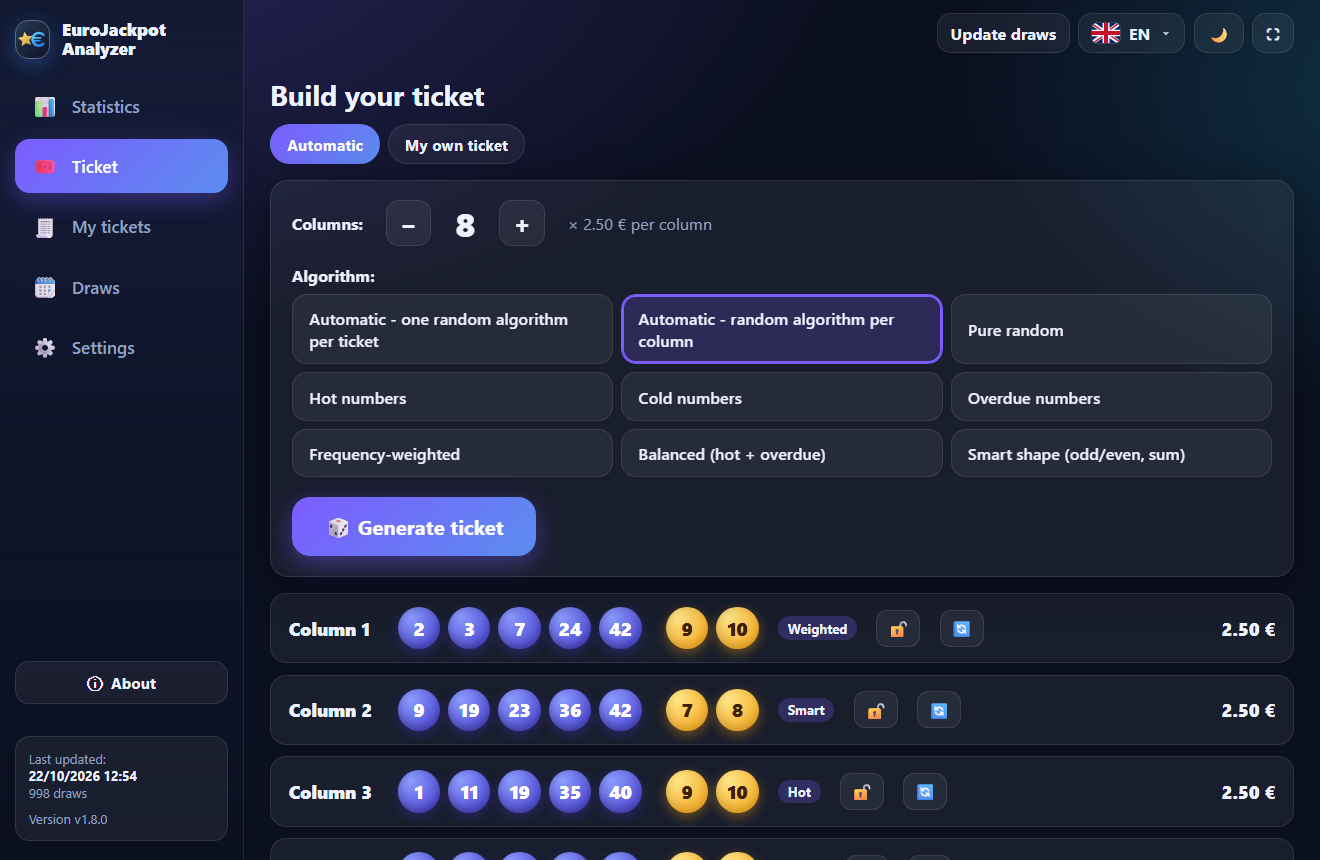
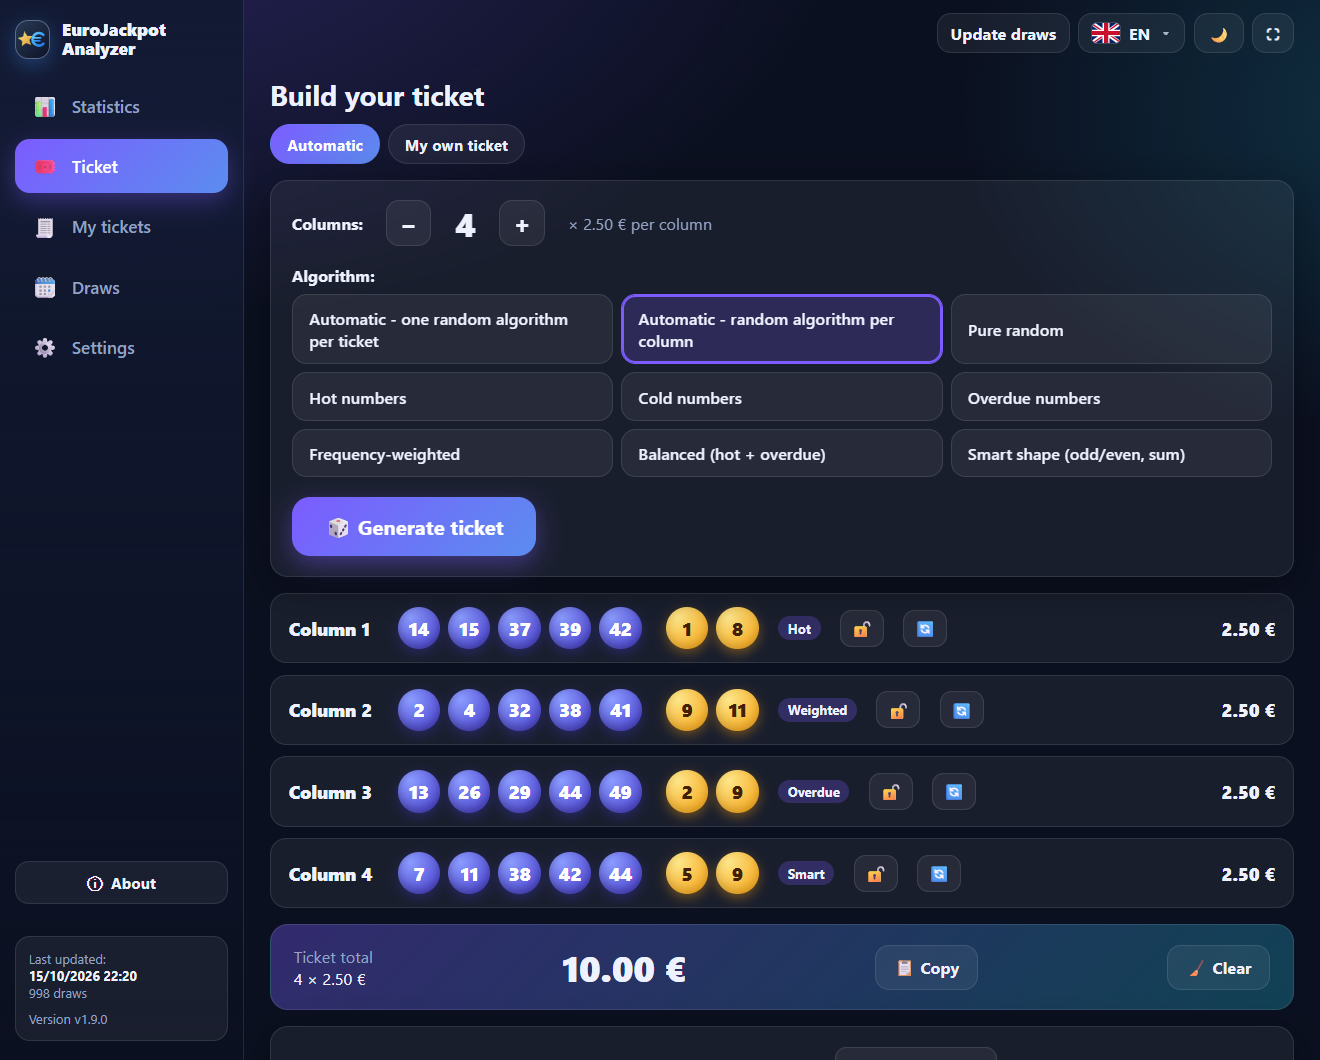
1.9.0: Clear button on automatically generated tickets (app, web, HA card + clear_ticket service)

diff --git a/app/ui/app.js b/app/ui/app.js
@@ -491,13 +491,14 @@ function drawTicket() {
   out.innerHTML = `<div class="cols">${tk.columns.map((c, i) => `
     <div class="col-row ${S.locks[i] ? "locked" : ""}">
       <span class="col-no">${tr("ticket.column")} ${i + 1}</span>${balls(c)}
-      <span class="col-tag">${tr("algo.short." + c.algo)}</span>
+      <span class="col-tag" title="${esc(algoLabel(c.algo))}">${tr("algo.short." + c.algo)}</span>
       <button class="icon-btn" data-lock="${i}" title="${S.locks[i] ? tr("ticket.unlock") : tr("ticket.lock")}">${S.locks[i] ? "🔒" : "🔓"}</button>
       <button class="icon-btn" data-regen="${i}" title="${tr("ticket.regen")}">🔄</button>
       <span class="col-price">${money(tk.price_per_column)}</span></div>`).join("")}</div>
     <div class="total"><div><div class="muted">${tr("ticket.total")}</div><div>${tk.columns.length} × ${money(tk.price_per_column)}</div></div>
       <div class="sum">${money(tk.total)}</div>
-      <button id="copy" class="btn">📋 ${tr("ticket.copy")}</button></div>
+      <button id="copy" class="btn">📋 ${tr("ticket.copy")}</button>
+      <button id="clear" class="btn">🧹 ${tr("ticket.clear")}</button></div>
     <div class="saved card">
       <div><b>💾 ${tr("tk.saved")}</b> · ${tr("tk.for_draw")}:
         <select id="tk-target">${[...new Set([tk.target_date, ...(S.nextDraws || [])])].sort().map(d => `<option value="${d}" ${d === tk.target_date ? "selected" : ""}>${fmtDay(d)}</option>`).join("")}</select></div>
@@ -508,6 +509,11 @@ function drawTicket() {
   $$("[data-lock]", out).forEach(b => b.onclick = () => { const i = +b.dataset.lock; S.locks[i] = !S.locks[i]; drawTicket(); });
   $$("[data-regen]", out).forEach(b => b.onclick = () => { const i = +b.dataset.regen;
     generate(tk.columns.map((c, j) => j === i ? null : c)); });
+  $("#clear").onclick = async () => {        // forget the generated ticket (an unplayed suggestion leaves the history too, a played one stays) to start a new one
+    try { if (!tk.played) await call("delete_ticket", tk.id); } catch (e) { toast(e.message || String(e)); }
+    S.ticket = null; S.locks = {};
+    drawTicket();
+  };
   $("#copy").onclick = async () => {
     const text = tk.columns.map((c, i) => `${tr("ticket.column")} ${i + 1}: ${c.main.join(" ")} + ${c.euro.join(" ")}`).join("\n") + `\n${tr("ticket.total")}: ${money(tk.total)}`;
     try { await navigator.clipboard.writeText(text); toast(tr("ticket.copied")); } catch { toast(text); }

diff --git a/app/version.py b/app/version.py
@@ -1,7 +1,7 @@
 import os
 
 # EJP_VERSION_OVERRIDE: testing/docs only (e.g. pretend to be an older version to see the update screen)
-__version__ = os.environ.get("EJP_VERSION_OVERRIDE") or "1.8.2"
+__version__ = os.environ.get("EJP_VERSION_OVERRIDE") or "1.9.0"
 APP_NAME = "EuroJackpot Analyzer"
 # GitHub "owner/name" used for update checks (GitHub Releases). Empty = update check disabled.
 GITHUB_REPO = "VeZReVouLiS/EuroJackpot-Analyzer"

diff --git a/README.md b/README.md
@@ -88,7 +88,7 @@
    - *Αυτόματος - ένας τυχαίος αλγόριθμος ανά δελτίο*, ή *τυχαίος αλγόριθμος ανά στήλη*.
    - *Καθαρά τυχαίος, Συχνοί (hot), Σπάνιοι (cold), Καθυστερημένοι, Σταθμισμένος βάσει συχνότητας, Ισορροπημένος, Έξυπνη κατανομή (μονοί/ζυγοί, άθροισμα)*.
 3. Πάτα **Δημιούργησε δελτίο**. Δίπλα σε κάθε στήλη φαίνεται ο αλγόριθμος που τη δημιούργησε και η τιμή της (2,50 € στην Ελλάδα, 2,00 € στη Γερμανία, ή η τιμή που όρισες στις Ρυθμίσεις). Κάτω φαίνεται το **σύνολο του δελτίου**.
-4. Με το 🔒 κλειδώνεις μια στήλη που σου αρέσει, με το 🔄 ξαναφτιάχνεις μόνο εκείνη και με το **Αντιγραφή** παίρνεις όλο το δελτίο ως κείμενο.
+4. Με το 🔒 κλειδώνεις μια στήλη που σου αρέσει, με το 🔄 ξαναφτιάχνεις μόνο εκείνη με το **Αντιγραφή** παίρνεις όλο το δελτίο ως κείμενο και με το **🧹 Καθαρισμός** καθαρίζεις ό,τι εμφανίζεται, για να φτιάξεις νέο όποτε θέλεις (αν δεν το έχεις παίξει, φεύγει και από το ιστορικό· αν το έχεις σημειώσει ως παιγμένο, μένει εκεί).
 5. Στο κάτω μέρος βλέπεις ότι το δελτίο **αποθηκεύτηκε στο ιστορικό** για την επόμενη κλήρωση (μπορείς να διαλέξεις άλλη ημερομηνία). Αν το παίξεις πραγματικά, πάτα **«Το έπαιξα»**.
    Όσο δεν το έχεις σημειώσει ως παιγμένο, ένα νέο «Δημιούργησε δελτίο» αντικαθιστά την πρόταση, χωρίς να γεμίζει το ιστορικό.
 

diff --git a/CHANGELOG.md b/CHANGELOG.md
@@ -1,5 +1,11 @@
 # Changelog
 
+## 1.9.0
+- **Κουμπί «Καθαρισμός»** στα δελτία που φτιάχνονται αυτόματα (Windows, Mac, web / iPhone, Android και Home Assistant): καθαρίζει το δελτίο που εμφανίζεται, για να φτιάξεις νέο όποτε θέλεις. Αν το δελτίο δεν το έχεις παίξει, φεύγει και από τα «Τα δελτία μου»· αν το έχεις σημειώσει ως παιγμένο, μένει στο ιστορικό.
+- Στο Home Assistant (0.7.0) προστέθηκε και η υπηρεσία `eurojackpot_analyzer.clear_ticket` (χρειάζεται επανεκκίνηση του HA μετά την ενημέρωση).
+- Στη στήλη κάθε δελτίου, πάνω στην ετικέτα του τύπου (Hot, Cold, Καθυστ. κλπ) φαίνεται πλέον με το ποντίκι το πλήρες όνομα του αλγορίθμου.
+- Bug fixes / μικρές διορθώσεις
+
 ## 1.8.2
 - Η σελίδα που μένει στον browser μετά τη σύνδεση με Google λέει πλέον «Συνδεδεμένο με το Google Drive - μπορείς να κλείσεις αυτό το παράθυρο» (στη γλώσσα της εφαρμογής) και κλείνει μόνη της όταν το επιτρέπει ο browser.
 - Bug fixes / μικρές διορθώσεις

diff --git a/README.en.md b/README.en.md
@@ -87,7 +87,7 @@ In the **Draws** menu you first see the **“Next draw”** box with the date an
    - *Automatic - one random algorithm per ticket*, or *a random algorithm per column*.
    - *Pure random, Hot numbers, Cold numbers, Overdue numbers, Frequency-weighted, Balanced, Smart shape (odd/even, sum)*.
 3. Press **Generate ticket**. Next to every column you see the algorithm that created it and its price (€2.50 in Greece, €2.00 in Germany, or the price you set in Settings). Below is the **ticket total**.
-4. 🔒 locks a column you like, 🔄 regenerates only that one, and **Copy** puts the whole ticket on the clipboard as text.
+4. 🔒 locks a column you like, 🔄 regenerates only that one, **Copy** puts the whole ticket on the clipboard as text and **🧹 Clear** removes what is shown so you can make a new one whenever you like (an unplayed ticket also leaves the history, one marked as played stays there).
 5. At the bottom you see that the ticket was **saved to your history** for the next draw (you can pick another date). If you really play it, press **“I played it”**.
    As long as it is not marked as played, generating again replaces the suggestion instead of filling the history.
 
